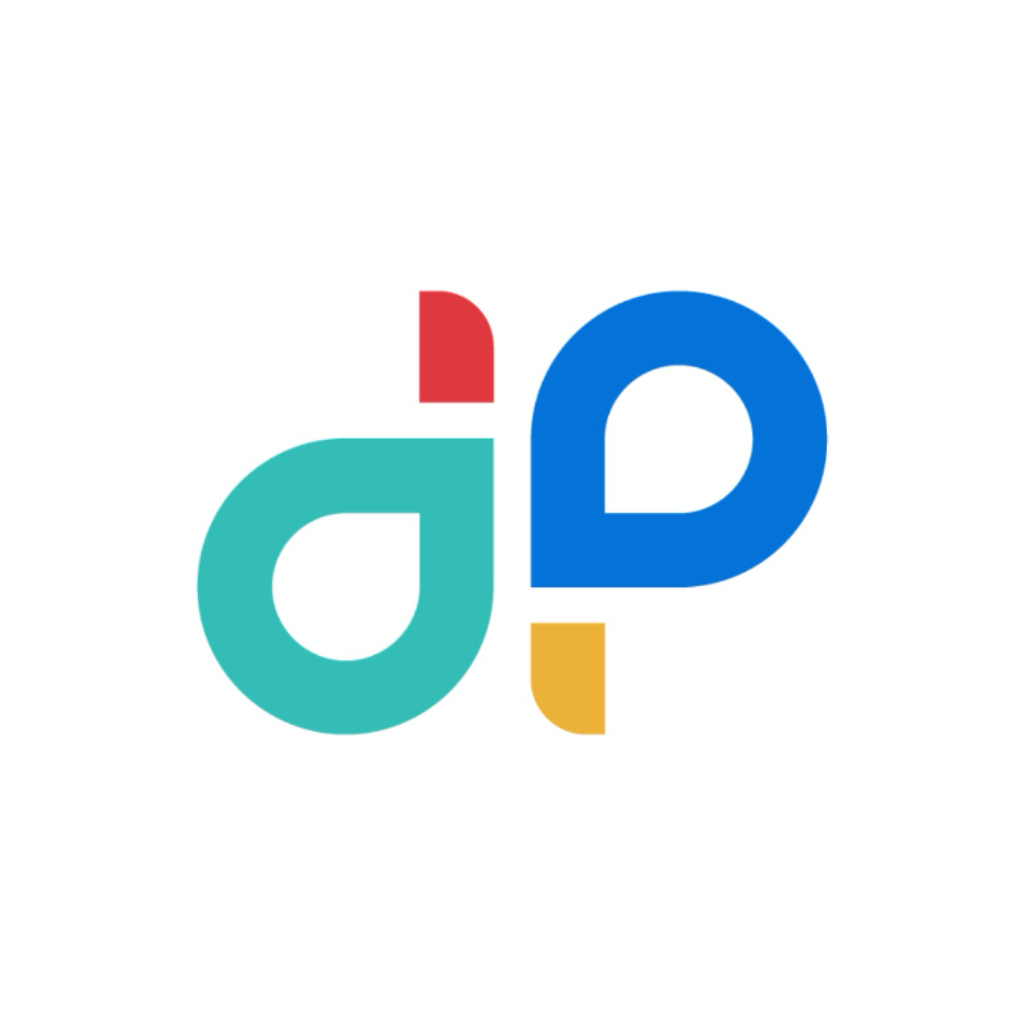
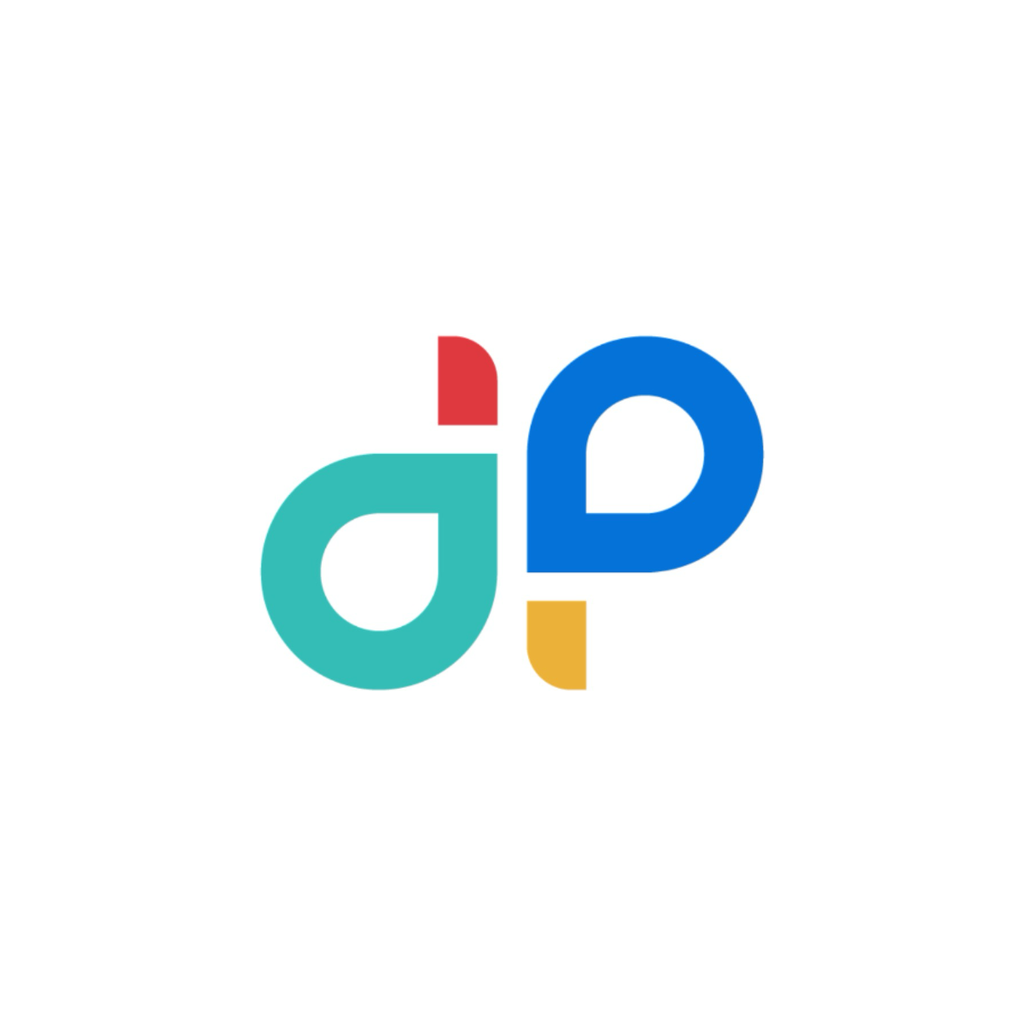
fix(mobile): parpadeo al cambiar de historia, glifo recortado y retraso de los SFX
reader: ReaderScreen no se remontaba al cambiar de historia, asi que React
reusaba la instancia y su estado. El cuerpo se pinta desde wordTimings, cuyo
reset vive en un efecto (corre despues del commit), asi que durante un frame
se veia el texto de la historia ANTERIOR. Eso era el parpadeo al dar "next".
Una key por historia mata la clase entera de estado viejo: timings, glosas,
portada y refs de scroll.

practica: la palabra del ejercicio de meaning llevaba tracking negativo junto
a adjustsFontSizeToFit. iOS mide sin aplicar el tracking y recorta el ULTIMO
glifo sin puntos suspensivos: se veia "Handgezeichne" mientras el audio decia
"Handgezeichnet". Los datos estaban intactos, el fallo era de medicion, y lo
dispara cualquier compuesto aleman largo.

practica: los SFX de acierto/error se creaban desde cero en cada respuesta
(parseo + decoder + audio session, 200-500 ms segun el preload del clip de
context), mientras el verde/rojo ya se habia pintado. Ahora se arman una vez
al abrir la sesion y cada respuesta solo rebobina.

icon: el foreground del adaptive icon tenia el mark al 62% del lienzo, que es
el 92.5% del ancho VISIBLE (los 72dp centrales de 108), pegado a las paredes
del circulo. Reencuadrado a la misma caja que el splash de Android: 74% del
ancho visible y la tinta entera dentro de la zona segura de 66dp. Solo
recorte y reescalado del arte existente.

Changed region(s): [[0.1875, 0.2812, 0.8125, 0.7188], [0.5625, 0.4062, 0.5938, 0.5], [0.4062, 0.5, 0.4375, 0.5938]]

diff --git a/apps/mobile/src/mobile/MobileLibraryShell.tsx b/apps/mobile/src/mobile/MobileLibraryShell.tsx
@@ -2454,6 +2454,15 @@ export function MobileLibraryShell(args: {
   const practiceAudioSeqRef = useRef(0);
   const practiceClipStopAtMillisRef = useRef<number | null>(null);
   const practiceFeedbackSoundRef = useRef<Audio.Sound | null>(null);
+  // SFX de acierto/error pre-armados una sola vez por sesión. Crearlos en cada
+  // respuesta (parseo + decoder + audio session) costaba 200-500 ms, medidos en
+  // el preload del clip de context (5d), y el verde/rojo ya se había pintado:
+  // ese desfase es el "retraso" que se oye en los ejercicios. Pre-cargados, la
+  // respuesta es un `replayAsync()`.
+  const practiceFeedbackPreloadRef = useRef<{
+    correct: Audio.Sound | null;
+    wrong: Audio.Sound | null;
+  }>({ correct: null, wrong: null });
   // Gate para que el audio de palabra del context arranque JUSTO cuando el
   // SFX de acierto/error termina (en vez de solaparse). Al reproducir el SFX
   // publicamos una promesa que resuelve en su `didJustFinish`; el clip del
@@ -8256,6 +8265,53 @@ export function MobileLibraryShell(args: {
     triggerPracticeComboToast(practiceSessionStreak);
   }, [practiceSessionStreak]);
 
+  // Arma los dos SFX al abrir la sesión de práctica, mismo patrón que el
+  // preload (5d) del clip de context: `createAsync({ shouldPlay: false })`
+  // monta el decoder y fija el audio session una vez, y luego cada respuesta
+  // solo rebobina. Se descargan al cerrar la sesión.
+  const practiceSessionOpen = activePracticeMode !== null;
+  useEffect(() => {
+    if (!practiceSessionOpen) return;
+    let cancelled = false;
+    const slots = practiceFeedbackPreloadRef.current;
+    void (async () => {
+      try {
+        // En iOS el modo de audio es global; reafirmarlo aquí es lo que
+        // permite quitar el `await` de sesión que había delante de CADA SFX.
+        await Audio.setAudioModeAsync({
+          playsInSilentModeIOS: true,
+          allowsRecordingIOS: false,
+          interruptionModeIOS: InterruptionModeIOS.DoNotMix,
+        });
+        for (const slot of ["correct", "wrong"] as const) {
+          if (slots[slot]) continue;
+          const { sound } = await Audio.Sound.createAsync(
+            slot === "correct" ? SFX_PRACTICE_CORRECT : SFX_PRACTICE_WRONG,
+            { shouldPlay: false, volume: 0.8 }
+          );
+          if (cancelled) {
+            void sound.unloadAsync().catch(() => undefined);
+            return;
+          }
+          slots[slot] = sound;
+        }
+      } catch (e) {
+        // Best-effort: si el preload falla, playPracticeFeedbackSound cae al
+        // path lento de siempre.
+        console.warn("[practice-sfx] preload failed:", e);
+      }
+    })();
+    return () => {
+      cancelled = true;
+      const pending = [slots.correct, slots.wrong];
+      slots.correct = null;
+      slots.wrong = null;
+      for (const sound of pending) {
+        if (sound) void sound.unloadAsync().catch(() => undefined);
+      }
+    };
+  }, [practiceSessionOpen]);
+
   async function playPracticeFeedbackSound(correct: boolean) {
     // Publica una promesa que resuelve cuando el SFX termina, para que el
     // audio de palabra del context espere a que el sonido de acierto acabe
@@ -8275,6 +8331,26 @@ export function MobileLibraryShell(args: {
       resolveDone();
     };
     try {
+      // Camino rápido: el sound ya está montado y el audio session ya se fijó
+      // en el preload, así que esto es solo rebobinar. Nada de crear, nada de
+      // reafirmar modo, que es lo que metía el retraso frente al verde/rojo.
+      const preloaded = correct
+        ? practiceFeedbackPreloadRef.current.correct
+        : practiceFeedbackPreloadRef.current.wrong;
+      if (preloaded) {
+        const other = correct
+          ? practiceFeedbackPreloadRef.current.wrong
+          : practiceFeedbackPreloadRef.current.correct;
+        if (other) {
+          try { await other.stopAsync(); } catch { /* ignore */ }
+        }
+        await stopAndUnloadPracticeSound(practiceFeedbackSoundRef);
+        preloaded.setOnPlaybackStatusUpdate((status) => {
+          if ("didJustFinish" in status && status.didJustFinish) settle();
+        });
+        await preloaded.replayAsync();
+        return;
+      }
       await stopPracticeFeedbackSound();
       // Mismo motivo que en playPracticePerfectChime: en iOS el modo de audio
       // es global y hay que reafirmarlo antes de reproducir.
@@ -8944,6 +9020,14 @@ export function MobileLibraryShell(args: {
   }
 
   async function stopPracticeFeedbackSound() {
+    // Los SFX pre-armados se PARAN, nunca se descargan: viven toda la sesión y
+    // los descarga el cleanup del preload. Solo el sound del path lento (el de
+    // fallback, creado al vuelo) se descarga aquí.
+    const preloaded = practiceFeedbackPreloadRef.current;
+    for (const sound of [preloaded.correct, preloaded.wrong]) {
+      if (!sound) continue;
+      try { await sound.stopAsync(); } catch { /* ignore */ }
+    }
     await stopAndUnloadPracticeSound(practiceFeedbackSoundRef);
   }
 
@@ -17385,6 +17469,13 @@ export function MobileLibraryShell(args: {
     return (
       <View style={styles.readerWrapper}>
         <ReaderScreen
+          // Remonta el lector en cada historia. Sin `key`, React reusa la
+          // instancia y su estado: el cuerpo se pinta desde `wordTimings`, que
+          // durante un frame sigue siendo el PAYLOAD DE LA HISTORIA ANTERIOR
+          // (el reset vive en un efecto, que corre después del commit). Eso es
+          // el parpadeo al dar "next". Remontar mata la clase entera de estado
+          // viejo de una vez: timings, glosas, portada y refs de scroll.
+          key={selection.story.id}
           book={selection.book}
           story={selection.story}
           // La copia offline solo vale si se bajó de la MISMA url que sirve
@@ -24554,7 +24645,13 @@ const styles = StyleSheet.create({
     fontSize: 46,
     fontWeight: "900",
     lineHeight: 50,
-    letterSpacing: -1.6,
+    // letterSpacing DELIBERADAMENTE a 0. Con tracking negativo, iOS mide este
+    // Text sin aplicarlo y luego `adjustsFontSizeToFit` recorta el ÚLTIMO
+    // glifo sin puntos suspensivos: "Handgezeichnet" se veía
+    // "Handgezeichne" mientras el audio decía la palabra entera. Los datos
+    // estaban bien; el fallo era de medición. Lo dispara cualquier compuesto
+    // alemán largo, justo lo que el shrink-to-fit venía a resolver.
+    letterSpacing: 0,
     textAlign: "center",
   },
   practiceMeaningTargetWordCompact: {

diff --git a/apps/mobile/app.config.js b/apps/mobile/app.config.js
@@ -153,10 +153,15 @@ const config = {
       // Android recorta el foreground a un círculo/squircle según el launcher y
       // solo respeta el 66% central, así que reusar `icon.png` (el mark llena
       // el 87% del ancho) le comería los bordes al logo.
-      // `icon-adaptive-foreground.png` es el mismo mark al 62% sobre blanco
-      // opaco: el mask lo recorta a la forma del launcher y queda igual que en
-      // iOS. Al ser opaco, `backgroundColor` no llega a verse; se deja en
-      // blanco por coherencia.
+      // `icon-adaptive-foreground.png` es el mismo mark sobre blanco opaco,
+      // reencuadrado al 49% del lienzo (la misma caja que `splash-android-fg`).
+      // OJO con el cálculo, aquí se documentó mal una vez: el área VISIBLE son
+      // los 72dp centrales de 108, así que un mark al 62% del lienzo ocupaba el
+      // 92% del ancho visible y se veía como una barra pegada a las paredes del
+      // círculo, no "igual que en iOS" (allí es el 87% de una máscara cuadrada).
+      // Al 49% del lienzo son 74% del ancho visible y la tinta cae entera dentro
+      // de la zona segura de 66dp. Al ser opaco, `backgroundColor` no llega a
+      // verse; se deja en blanco por coherencia.
       foregroundImage: "./assets/icon-adaptive-foreground.png",
       backgroundColor: "#ffffff",
     },
